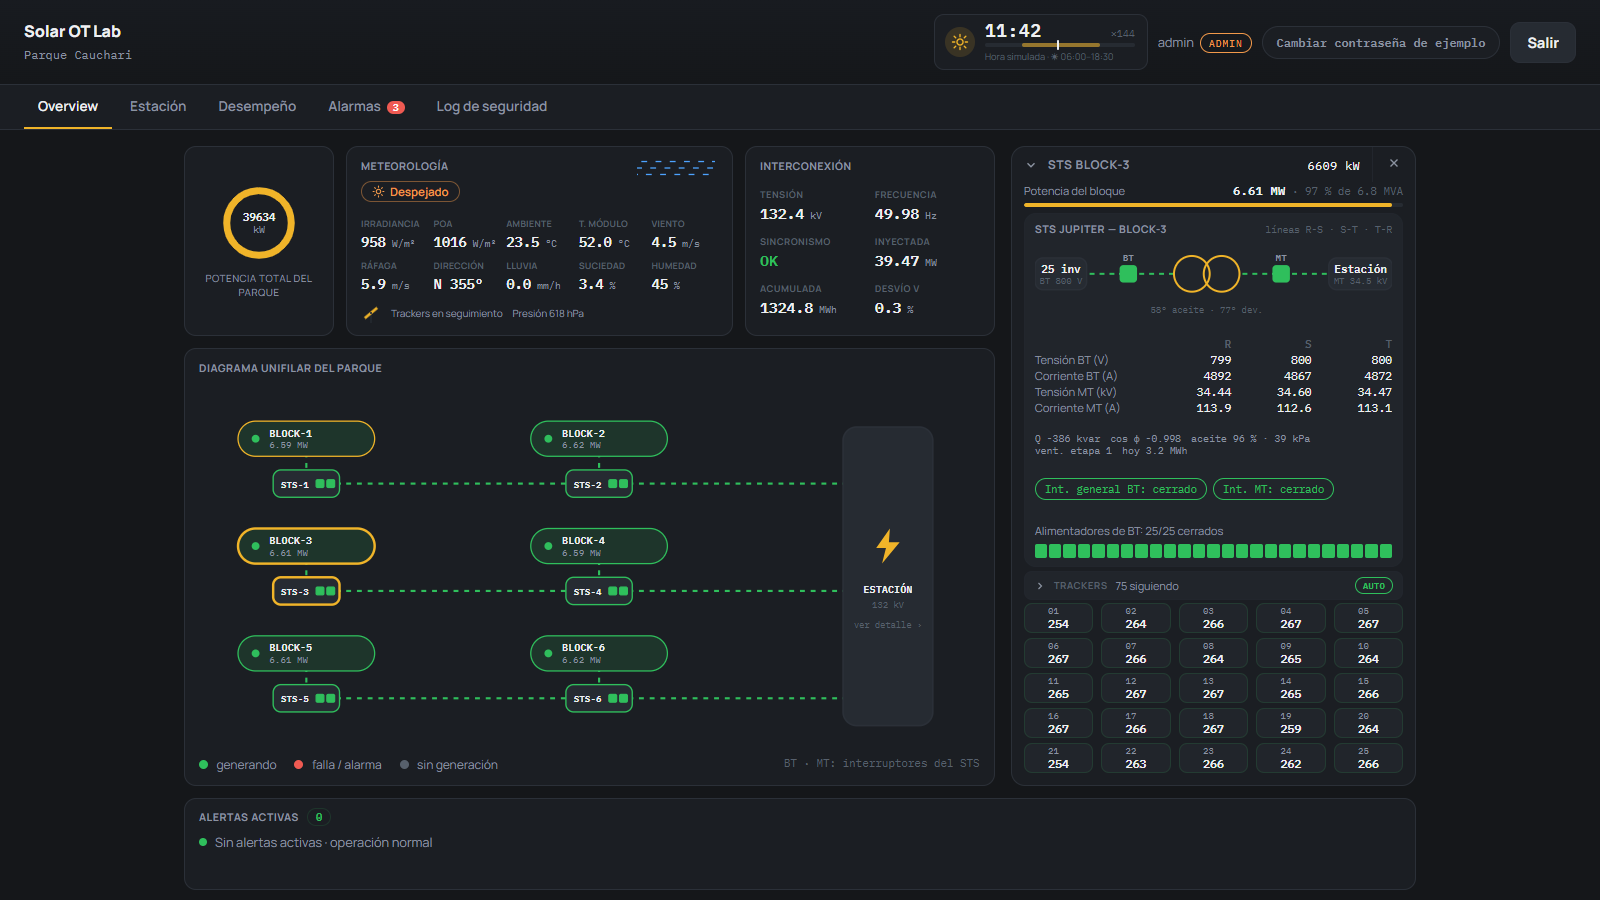
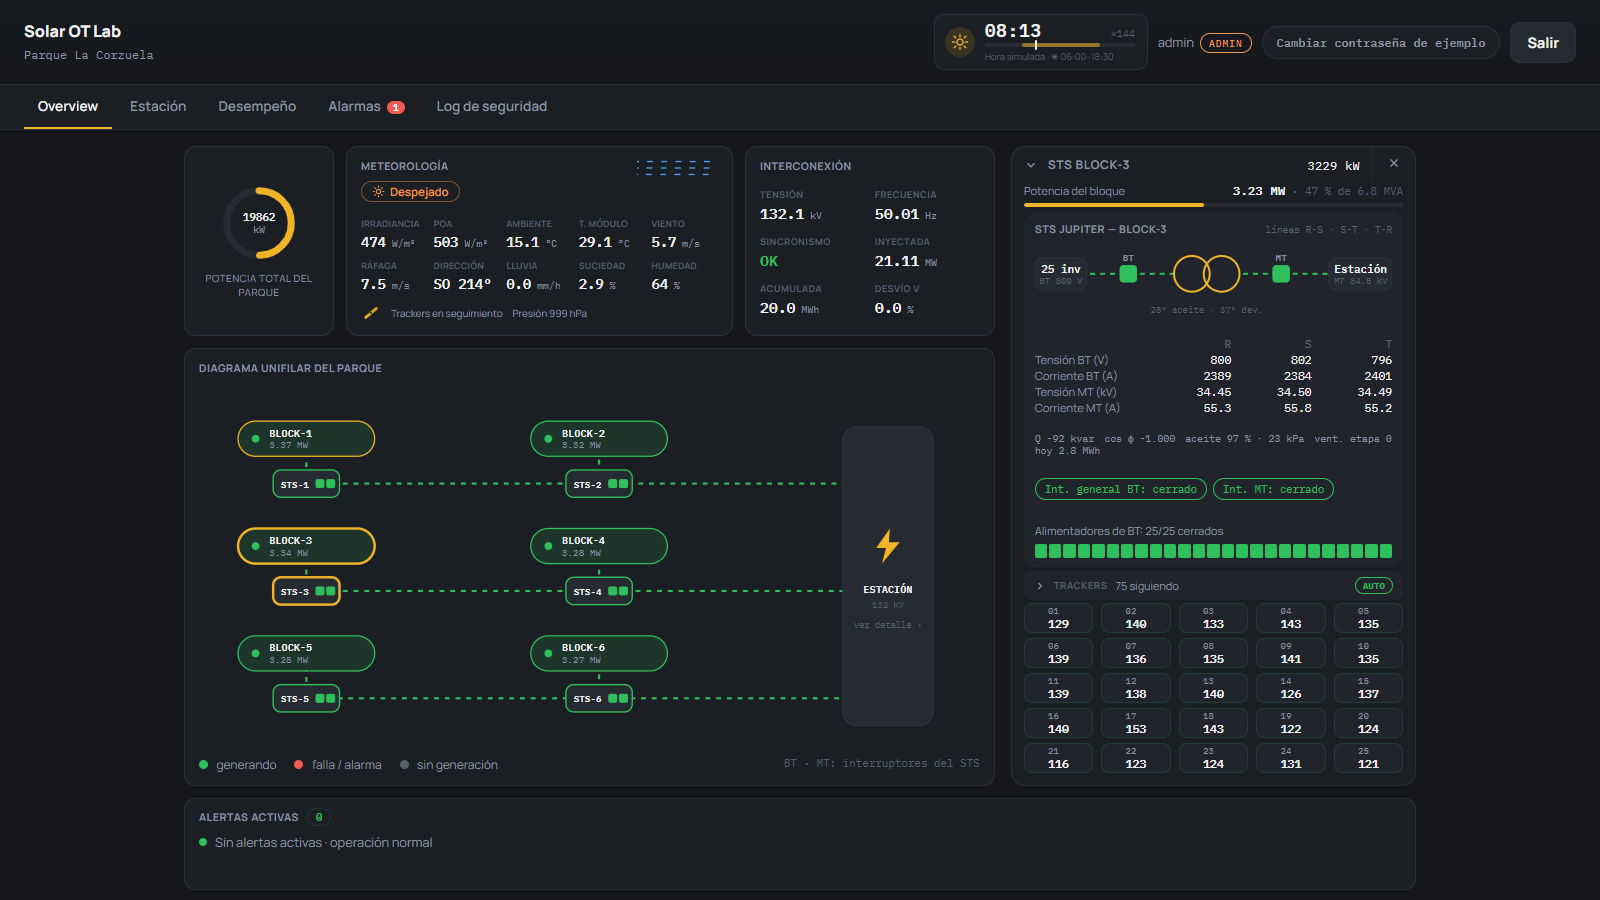
Actualiza solar-ot-lab: parque La Corzuela e imagenes regrabadas

diff --git a/src/components/sections/DevShowcase.tsx b/src/components/sections/DevShowcase.tsx
@@ -62,7 +62,7 @@ const SOLAR_OT_LAB: FeatureShowcaseProps = {
   eyebrow: 'OT · Infraestructura crítica',
   title: 'solar-ot-lab',
   description:
-    'Mini-SCADA de laboratorio de un parque solar de 40 MW: agentes de campo, gateway y dashboard en tiempo real. Los equipos son simulados; los protocolos, reales (Modbus TCP e IEC 60870-5-104).',
+    'Mini-SCADA de laboratorio de un parque solar de 40 MW, inspirado en La Corzuela (Pinedo, Chaco): agentes de campo, gateway y dashboard en tiempo real. Los equipos son simulados; los protocolos, reales (Modbus TCP e IEC 60870-5-104).',
   stats: ['SCADA', 'Modbus TCP', 'IEC 60870-5-104', 'Python', 'FastAPI', 'React', 'Docker'],
   steps: [
     {
